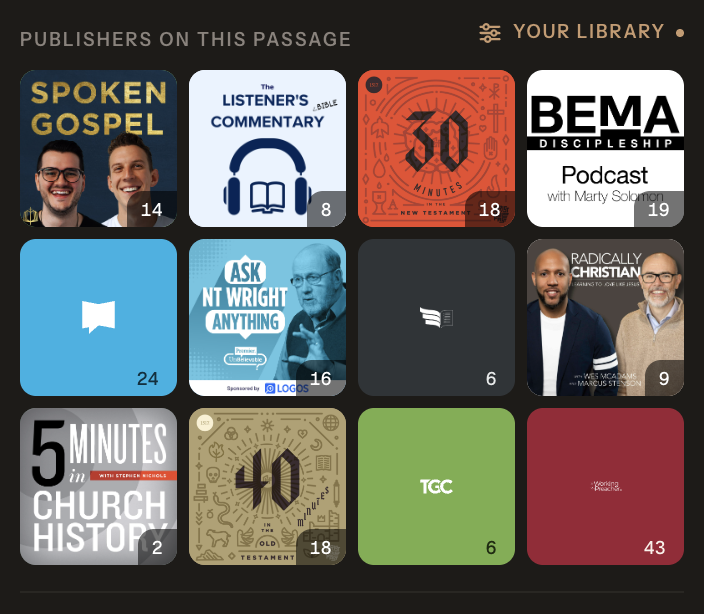
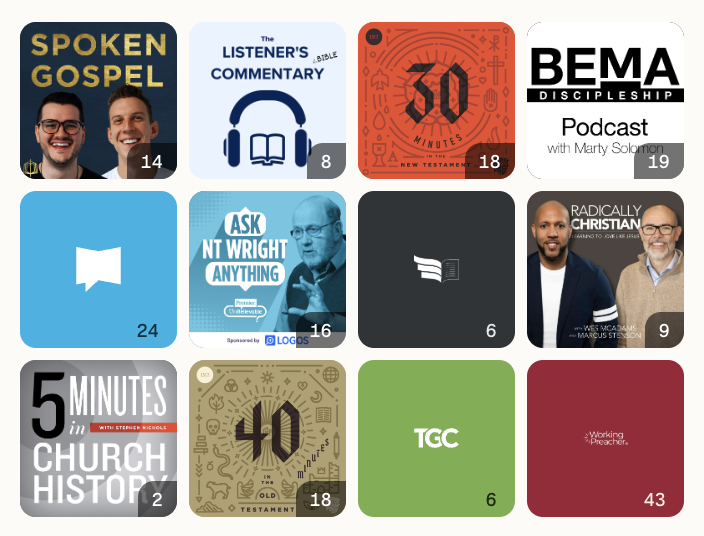
feat: the shelf is square on both faces
The cover face went square first, because artwork forced into a landscape
plate loses the top and bottom of a composition somebody drew. The maintainer
then asked for the marks to follow, and they are right: a register whose cells
are square on some rows and landscape on others is not a register. One shape,
one rhythm, whichever face is on — and the two faces now read as siblings
rather than as two different shelves.

THE OPTICAL SCALE IS RE-DERIVED, not merely reused. K = 42 where it was 33,
the rule untouched — a third of the way from equal-height to equal-area,
exponent 0.34 — and only the box it is fitted to is new: 46px of usable height
in the old 92×56 plate against 62 in a square cell of about 79. Every mark
grows with it, and the side padding is narrower than the top and bottom
because in a square the widest lockups are bound by WIDTH, so every pixel of
side margin comes straight off their height.

THE HONEST COST is Working Preacher's. A 92×56 landscape plate suited a 3.27:1
wordmark and a square does not, so theirs draws a little smaller here than it
did. Ten publishers gain; one pays. That trade is what the exponent exists to
make and it is written where the rule is.

ONE LINE THAT LOOKED LIKE DECORATION AND WAS NOT: `height: auto` beside the
aspect ratio. The base `.trusted-resource-imprint` rule sets 56px for the
imprint's other homes, and an aspect-ratio with an explicit height resolves
[…]

diff --git a/src/renderer/styles.css b/src/renderer/styles.css
@@ -20700,9 +20700,22 @@ button.lang-phrase-diagram-node:focus-visible,
    A wide column gets MORE COLUMNS, never bigger plates. */
 .resource-shelf {
   --shelf-gap: 6px;
+  /* KEPT FOR ONE CONSUMER — the forced-colors block far below, where the plate
+     becomes TEXT and a square cell would cut the descenders off the second
+     line of "The Listener's Bible Commentary". A floor is right there and a
+     ratio is not. Everywhere else the cell is square. */
   --shelf-row: 56px;
   display: grid;
-  grid-template-columns: repeat(auto-fill, minmax(92px, 1fr));
+  /* SQUARE, BOTH FACES · 2026-08-02. The cover face went square first, because
+     artwork forced into a landscape plate loses the top and bottom of a
+     composition. The maintainer then asked for the marks to follow, and they
+     are right: a register whose cells are square on some rows and landscape on
+     others is not a register. One shape, one rhythm, whichever face is on.
+
+     The honest cost is paid by the widest lockups. A 92×56 landscape plate
+     suited a 3.27:1 wordmark; a square does not, and Working Preacher's mark
+     draws a little smaller here than it did. Every other publisher's grows. */
+  grid-template-columns: repeat(auto-fill, minmax(72px, 1fr));
   gap: var(--shelf-gap);
   padding: 0;
 }
@@ -20727,11 +20740,19 @@ button.lang-phrase-diagram-node:focus-visible,
   display: grid;
   place-items: center;
   position: relative;
-  height: var(--shelf-row);
+  /* `height: auto` is not decoration: the base `.trusted-resource-imprint`
+     rule sets a 56px height for the imprint's other homes, and an
+     `aspect-ratio` with an explicit height still resolves against that height
+     — the cell came out 56 square inside a 78px column, centred, with the
+     grid's own gutters doubled around it. The ratio needs a free axis. */
+  height: auto;
+  aspect-ratio: 1;
   /* Symmetric top and bottom, where the lane needed 5/4. With the numeral out
      of flow the symbol is the only thing left in the grid, so an even padding
      box makes `place-items: center` exact rather than half a pixel low. */
-  padding: 5px 9px;
+  /* Narrower at the sides than at the top: in a square the widest lockups are
+     bound by width, so side margin is height taken straight off them. */
+  padding: 5px 6px;
 }
 
 /* ── ONE OPTICAL SCALE FOR THE MARKS · RESTATED 2026-07-31 ─────────────────
@@ -20766,7 +20787,15 @@ button.lang-phrase-diagram-node:focus-visible,
 
    The clamp is a guard rather than a shape: nothing reaches either end. */
 .resource-shelf .trusted-resource-imprint .trusted-resource-source {
-  --shelf-art-h: clamp(18px, calc(33px / pow(var(--resource-symbol-ratio), 0.34)), 37px);
+  /* K = 42, RESTATED FOR THE SQUARE · 2026-08-02. The rule is untouched — one
+     third of the way from equal-height to equal-area, exponent 0.34 — and only
+     the box it is fitted to is new. It was 33 against a 92×56 plate with 46px
+     of usable height; a square cell of about 72 gives 62, and the mark grows
+     with it. The widest lockups are width-bound in a square where they were
+     not in a landscape, which is why the horizontal padding below is narrower
+     than the vertical: in a square every pixel of side margin comes straight
+     off the height of a wide mark. */
+  --shelf-art-h: clamp(15px, calc(42px / pow(var(--resource-symbol-ratio), 0.34)), 46px);
   /* What the tally's corner needs kept clear of a centred symbol: three
      tabular digits at 9px mono is about 17px, plus a gap. */
   --shelf-tally-clear: 22px;
@@ -23110,32 +23139,12 @@ button.lang-phrase-diagram-node:focus-visible,
    The tint underneath is the record's own, so a cover still loading is a
    coloured cell of the right shape rather than a hole. Nothing reflows when
    the art lands. */
-/* SQUARE, BECAUSE THE ARTWORK IS. A cover cropped into the mark's landscape
-   plate loses the top and bottom of a composition somebody designed — BEMA
-   lost its presenter's name, 5 Minutes in Church History lost half its title.
-   So the cell becomes the shape of the thing in it.
-
-   And smaller with it: a square cell at the mark's 92px would be 92px TALL,
-   nearly twice the row a wordmark needs, and the register would take twice the
-   margin's height to say the same thing. 72px is the trade — the shelf keeps
-   roughly its footprint and a cover is still read at a glance. */
-.resource-shelf[data-face="cover"] {
-  grid-template-columns: repeat(auto-fill, minmax(72px, 1fr));
-}
-
+/* The artwork takes the whole cell — no padding to letterbox it, and clipped
+   to the cell's own radius. A publisher with no cover keeps its mark and keeps
+   the square with it. */
 .resource-shelf .trusted-resource-imprint[data-face="cover"] {
-  height: auto;
-  aspect-ratio: 1;
   padding: 0;
   overflow: hidden;
-}
-
-/* A publisher with no artwork keeps its mark, and in a square shelf it keeps
-   its square too — an even register is the point, and one landscape cell in a
-   grid of squares is a hole with a logo in it. */
-.resource-shelf[data-face="cover"] .trusted-resource-imprint[data-face="mark"] {
-  height: auto;
-  aspect-ratio: 1;
 }
 
 .trusted-resource-cover {

diff --git a/tests/resource-shelf-packing.test.ts b/tests/resource-shelf-packing.test.ts
@@ -83,9 +83,22 @@ test("the two-track register and its packing pass are retired, not disabled", ()
     styles.indexOf("\n.resource-shelf {"),
     styles.indexOf("\n.resource-shelf .trusted-resource-imprint {"),
   );
-  assert.match(shelf, /grid-template-columns: repeat\(auto-fill, minmax\(92px, 1fr\)\)/,
+  /* RESTATED 2026-08-02 — square cells at 72, where they were 92×56.
+     What this gate holds is EQUAL CELLS with a height no plate's own content
+     can raise, which is what made the measuring packer unnecessary. A square
+     holds it more tightly than the old pair did: the height is the cell's own
+     width, so there is not even a row value left for a plate to argue with.
+     The shape changed with the cover face and then with the maintainer's word
+     that the marks should match it. */
+  assert.match(shelf, /grid-template-columns: repeat\(auto-fill, minmax\(72px, 1fr\)\)/,
     "the rack lost its equal cells; without them the widths come back and so does the packer");
-  assert.match(shelf, /--shelf-row: 56px/, "the rack lost its one row height");
+  assert.match(
+    styles.slice(styles.indexOf("\n.resource-shelf .trusted-resource-imprint {")),
+    /aspect-ratio: 1;/,
+    "the rack lost its one cell shape");
+  /* The row value survives for exactly one consumer — the forced-colors block,
+     where the plate becomes text and needs a floor rather than a ratio. */
+  assert.match(shelf, /--shelf-row: 56px/, "the forced-palette floor is gone");
   assert.doesNotMatch(shelf, /min-width: calc\(50%/,
     "the two-track floor is back; that is the register this shelf replaced");
 
